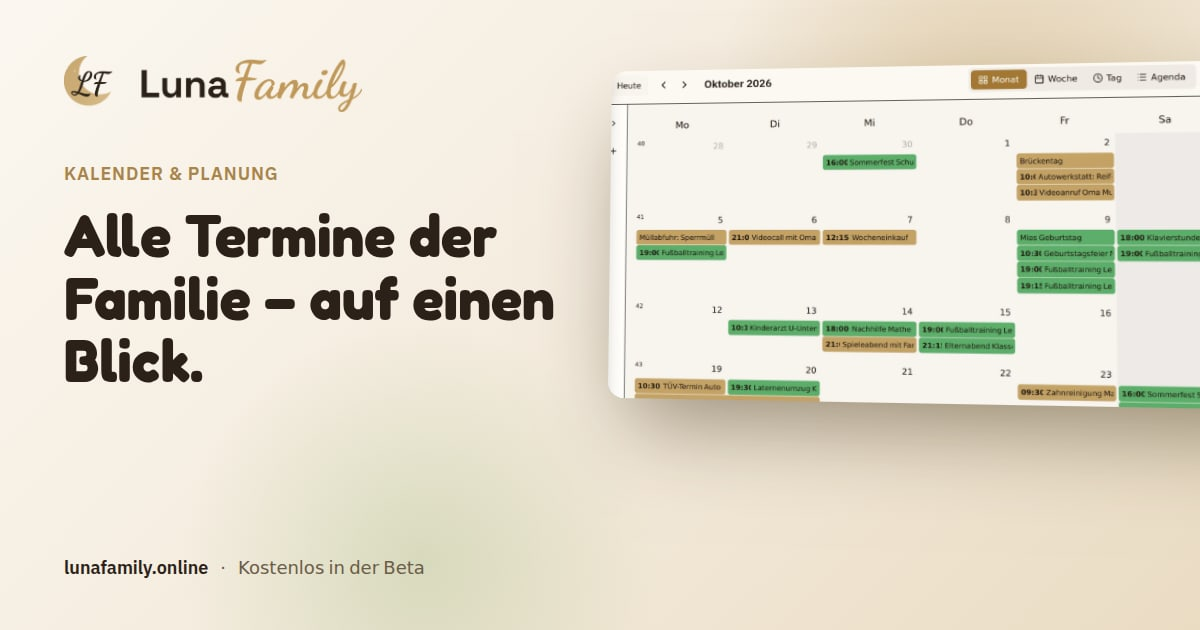
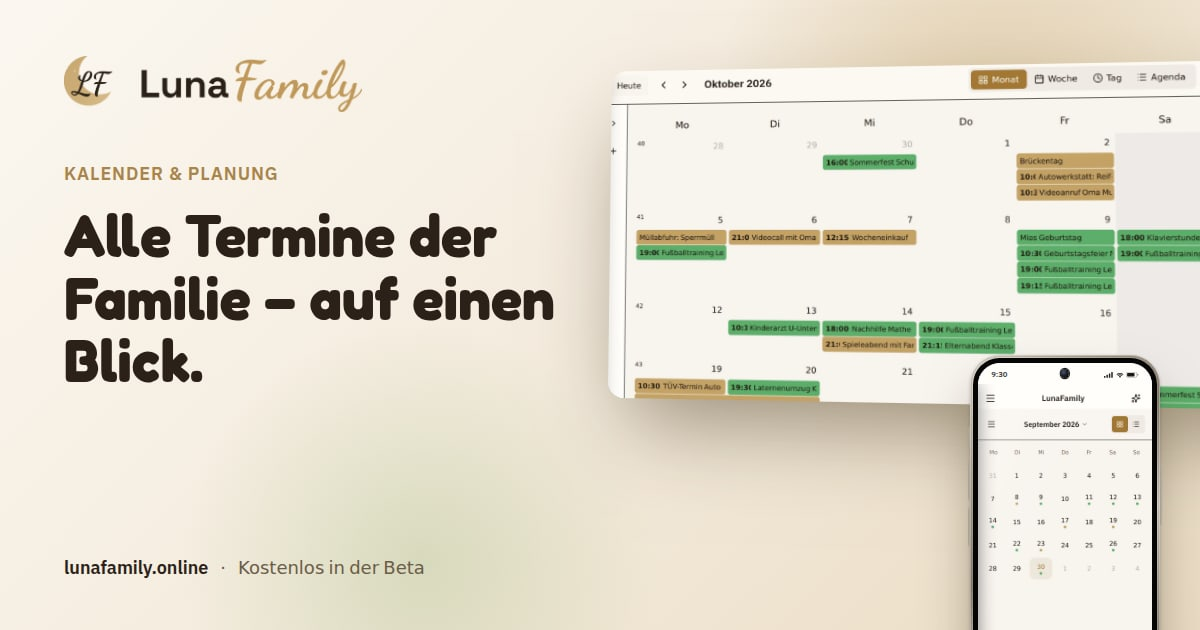
feat(marketing): realistisches Smartphone statt schwarzem Rahmen
- Metallrahmen (hell: warmes Titan, dunkel: Graphit) mit Seitentasten,
  schmaler Displayrand, Punch-Hole-Kamera, Statusleiste mit Uhrzeit,
  Empfang, WLAN und Akku in der Farbe der App-Kopfzeile, Home-Balken im
  eigenen sicheren Bereich, Glasreflex; herstellerneutral
- Maße in Container-Einheiten, sieht in jeder Größe gleich aus
- Die Mobile-Ansicht der App steht vollständig unter der Statusleiste
- Handy jetzt auch bei Kalender und Aufgaben; Hinweis-Chips verdecken
  das Display nicht mehr
- Teilen-Vorschaubilder neu erzeugt; README: wie spätere App-Fotos die
  Mobile-Ansicht ersetzen

Claude-Session: https://claude.ai/code/session_01UhCkWgqznaiCuAQ45Kkh7C

Changed region(s): [[0.8017, 0.5429, 0.9867, 1.0]]

diff --git a/src/data/features.ts b/src/data/features.ts
@@ -60,7 +60,7 @@ export const CATEGORIES: Category[] = [
   {
     slug: 'kalender',
     claim: 'Alle Termine der Familie – auf einen Blick.',
-    visual: { detail: 'kalender-raster', tilt: 'left', callouts: [{ text: 'Jede Person in ihrer Farbe', x: 68, y: -5, icon: 'users' }, { text: 'Training jeden Dienstag – einmal angelegt', x: -5, y: 93, icon: 'check' }] }, icon: IC.calendar, gradient: 'from-blue-500 to-cyan-500', status: 'available',
+    visual: { detail: 'kalender-raster', phone: 'phone-kalender', tilt: 'left', callouts: [{ text: 'Jede Person in ihrer Farbe', x: 26, y: -8, icon: 'users' }, { text: 'Training jeden Dienstag – einmal angelegt', x: -5, y: 93, icon: 'check' }] }, icon: IC.calendar, gradient: 'from-blue-500 to-cyan-500', status: 'available',
     title: 'Kalender & Planung', subtitle: 'Nie wieder einen Termin verpassen',
     features: ['Familien-Kalender', 'Wiederkehrende Termine', 'Event-Planung & Abstimmungen', 'Erinnerungen & Push-Benachrichtigungen'],
     intro: 'Fußballtraining, Elternabend, Zahnarzt, Omas Geburtstag: Im Familienkalender stehen alle Termine an einem Ort. Jeder sieht, wer wann wo sein muss, und niemand muss mehr fragen, ob der Termin am Dienstag oder am Mittwoch war.',
@@ -74,7 +74,7 @@ export const CATEGORIES: Category[] = [
   {
     slug: 'aufgaben',
     claim: 'Nichts rutscht mehr durch.',
-    visual: { detail: 'wiedervorlagen-liste', tilt: 'right', callouts: [{ text: 'Erinnert rechtzeitig an Fristen', x: 62, y: -5, icon: 'bell' }, { text: 'Wichtiges zuerst', x: -5, y: 94, icon: 'star' }] }, icon: IC.checkCircle, gradient: 'from-green-500 to-emerald-500', status: 'available',
+    visual: { detail: 'wiedervorlagen-liste', phone: 'phone-aufgaben', tilt: 'right', callouts: [{ text: 'Erinnert rechtzeitig an Fristen', x: 24, y: -9, icon: 'bell' }, { text: 'Wichtiges zuerst', x: -5, y: 94, icon: 'star' }] }, icon: IC.checkCircle, gradient: 'from-green-500 to-emerald-500', status: 'available',
     title: 'Aufgaben & Todos', subtitle: 'Gemeinsam mehr erledigen',
     features: ['Aufgabenlisten für alle', 'Subtasks & Prioritäten', 'Kategorien & Tags', 'Fälligkeitsdaten & Zuweisung'],
     intro: '„Wer kümmert sich eigentlich um …?" Diese Frage stellt sich nicht mehr. Aufgaben bekommen einen Zuständigen, eine Frist und eine Priorität, und große Vorhaben lassen sich in kleine Schritte zerlegen.',

diff --git a/README.md b/README.md
@@ -77,6 +77,12 @@ Aufnahme und Hinweis-Chips (`callouts`, Position in Prozent). Daraus baut
 `MarketingVisual.astro` das Aufmacherbild; die Startseite zeigt Laptop und
 Handy (`LaptopFrame`, `PhoneFrame`, neutrale Geräte ohne Herstellerbezug).
 
+**Handy-Aufnahmen austauschen:** Das Handy (`PhoneFrame.astro`) zeigt die
+Mobile-Ansicht der Web-App aus den `phone`-Einträgen in `screenshots.json`
+(390×844, Statusleiste und Home-Balken zeichnet der Rahmen selbst). Echte
+App-Fotos später einfach als `public/screenshots/<datei>-light.webp` und
+`-dark.webp` im Hochformat 390:844 ablegen — gleicher Name, keine Code-Änderung.
+
 **Teilen-Vorschaubilder** (WhatsApp, Facebook, LinkedIn …): Vorlage
 `src/pages/og-vorlage/[slug].astro`, Bilder unter `public/og/`. Nach
 geänderten Texten oder Screenshots: bauen, `npx astro preview`, dann
